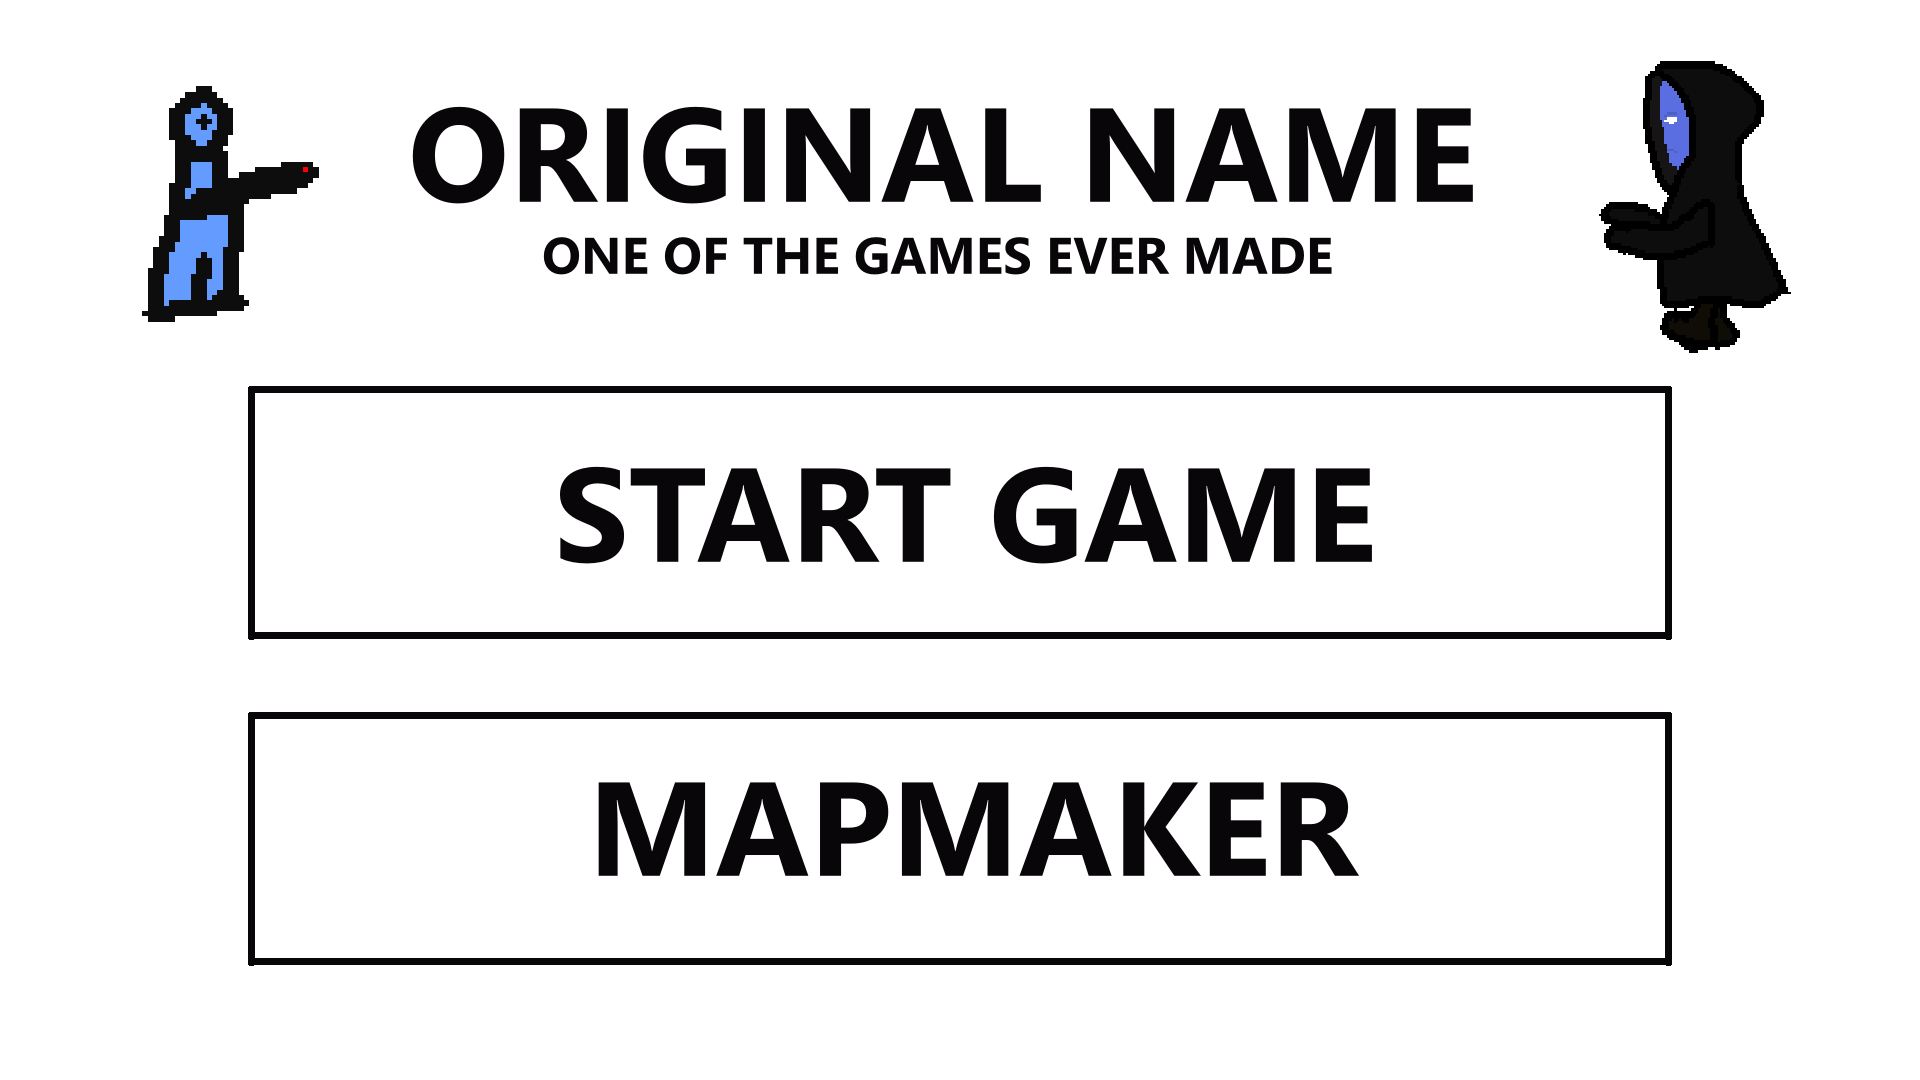
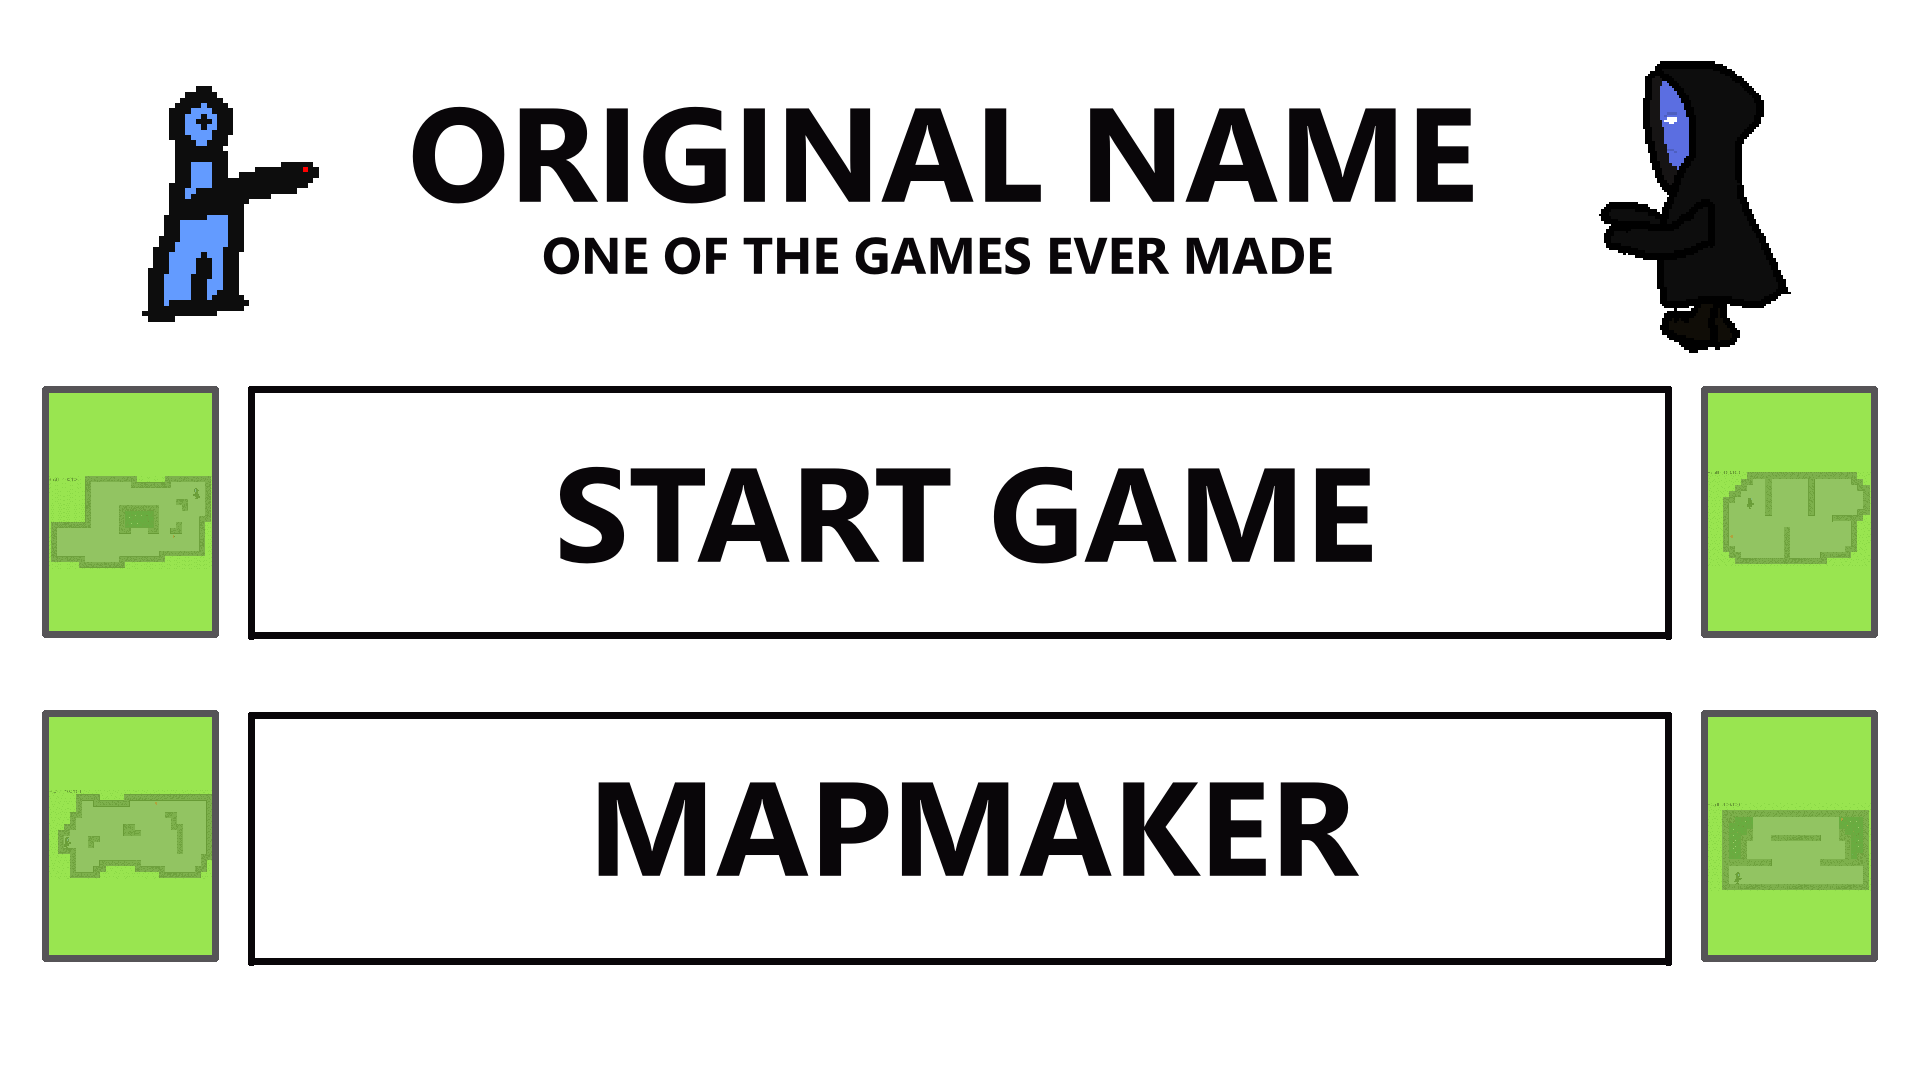
Add optional levels

diff --git a/AP_GameDev_Project/State_handlers/StartStateHandler.cs b/AP_GameDev_Project/State_handlers/StartStateHandler.cs
@@ -10,6 +10,11 @@ namespace AP_GameDev_Project.State_handlers
     {
         private readonly Rectangle startButtonRect;
         private readonly Rectangle mapMakeButtonRect;
+        private readonly Rectangle map1;
+        private readonly Rectangle map2;
+        private readonly Rectangle map3;
+        private readonly Rectangle map4;
+
         private MouseHandler mouseHandler;
         private bool is_init;
         public bool IsInit { get { return this.is_init; } }
@@ -22,6 +27,10 @@ namespace AP_GameDev_Project.State_handlers
             this.contentManager = ContentManager.getInstance;
             this.startButtonRect = new Rectangle(248, 386, 1423, 253);
             this.mapMakeButtonRect = new Rectangle(248, 712, 1423, 253);
+            this.map1 = new Rectangle(49, 393, 162, 237);
+            this.map2 = new Rectangle(49, 717, 162, 237);
+            this.map3 = new Rectangle(1708, 393, 162, 237);
+            this.map4 = new Rectangle(1708, 717, 162, 237);
             this.mouseHandler = MouseHandler.getInstance.Init();
             this.is_init = false;
             this.stateHandler = StateHandler.getInstance;
@@ -42,6 +51,8 @@ namespace AP_GameDev_Project.State_handlers
 
         private void MenuClickHandler(StartStateHandler startState)
         {
+            ushort difficulty = ((EndStateHandler)this.stateHandler.States[StateHandler.states_enum.END]).Difficulty;
+
             if (startState.startButtonRect.Contains(startState.mouseHandler.MousePos) && this.click_cooldown <= 0)
             {
                 this.stateHandler.SetCurrentState(StateHandler.states_enum.RUNNING).Init();
@@ -49,6 +60,22 @@ namespace AP_GameDev_Project.State_handlers
             else if (startState.mapMakeButtonRect.Contains(startState.mouseHandler.MousePos) && this.click_cooldown <= 0)
             {
                 this.stateHandler.SetCurrentState(StateHandler.states_enum.MAPMAKING).Init();
+            } else if (startState.map1.Contains(startState.mouseHandler.MousePos) && this.click_cooldown <= 0)
+            {
+                this.stateHandler.ResetState(StateHandler.states_enum.RUNNING, new RunningStateHandler(difficulty, 3));
+                this.stateHandler.SetCurrentState(StateHandler.states_enum.RUNNING).Init();
+            } else if (startState.map2.Contains(startState.mouseHandler.MousePos) && this.click_cooldown <= 0)
+            {
+                this.stateHandler.ResetState(StateHandler.states_enum.RUNNING, new RunningStateHandler(difficulty, 0));
+                this.stateHandler.SetCurrentState(StateHandler.states_enum.RUNNING).Init();
+            } else if (startState.map3.Contains(startState.mouseHandler.MousePos) && this.click_cooldown <= 0)
+            {
+                this.stateHandler.ResetState(StateHandler.states_enum.RUNNING, new RunningStateHandler(difficulty, 1));
+                this.stateHandler.SetCurrentState(StateHandler.states_enum.RUNNING).Init();
+            } else if (startState.map4.Contains(startState.mouseHandler.MousePos) && this.click_cooldown <= 0)
+            {
+                this.stateHandler.ResetState(StateHandler.states_enum.RUNNING, new RunningStateHandler(difficulty, 2));
+                this.stateHandler.SetCurrentState(StateHandler.states_enum.RUNNING).Init();
             }
         }
 

diff --git a/AP_GameDev_Project/State_handlers/RunningStateHandler.cs b/AP_GameDev_Project/State_handlers/RunningStateHandler.cs
@@ -30,12 +30,13 @@ namespace AP_GameDev_Project.State_handlers
         private Random random;
         EntityFactory ef;
 
-        public RunningStateHandler(ushort difficulty = 0)
+        public RunningStateHandler(ushort difficulty = 0, int room_id = -1)
         {
             this.random = new Random();
             this.contentManager = ContentManager.getInstance;
             this.collisionHandler = new CollisionHandler();
-            this.current_room = this.contentManager.GetRooms[this.random.Next(0, this.contentManager.GetRooms.Count)];
+            if (room_id < 0) this.current_room = this.contentManager.GetRooms[this.random.Next(0, this.contentManager.GetRooms.Count)];
+            else this.current_room = this.contentManager.GetRooms[(int)room_id];
             this.tile_hitboxes = this.current_room.GetHitboxes((Byte tile) => { return tile > 1  && tile != 3; });
             this.mouseHandler = MouseHandler.getInstance.Init();
             this.entities = new List<AEntity>();
@@ -50,7 +51,7 @@ namespace AP_GameDev_Project.State_handlers
             this.walkable_tile_centers = tiles.Select(tile => tile.Center.ToVector2() - offset).ToList();
 
             this.ef = new EntityFactory(this.entities, this.collectables, this.current_room);
-            this.ef.StartSpawn();
+            this.ef.StartSpawn(difficulty);
         }
 
         public void Init()

diff --git a/AP_GameDev_Project/State_handlers/EndStateHandler.cs b/AP_GameDev_Project/State_handlers/EndStateHandler.cs
@@ -28,6 +28,7 @@ namespace AP_GameDev_Project.State_handlers
                 this.won = value; 
             } }
         private ushort difficulty;
+        public ushort Difficulty { get { return this.difficulty; } }
 
         public EndStateHandler()
         {
@@ -59,7 +60,7 @@ namespace AP_GameDev_Project.State_handlers
         {
             if (gameOverState.homeButtonRect.Contains(gameOverState.mouseHandler.MousePos) && this.click_cooldown <= 0)
             {
-                this.stateHandler.ResetState(StateHandler.states_enum.RUNNING, new RunningStateHandler(this.difficulty));
+                this.stateHandler.ResetState(StateHandler.states_enum.RUNNING, new RunningStateHandler(this.difficulty, -1));
                 this.stateHandler.SetCurrentState(StateHandler.states_enum.START).Init();
             }
             else if (gameOverState.ExitButtonRect.Contains(gameOverState.mouseHandler.MousePos) && this.click_cooldown <= 0)
